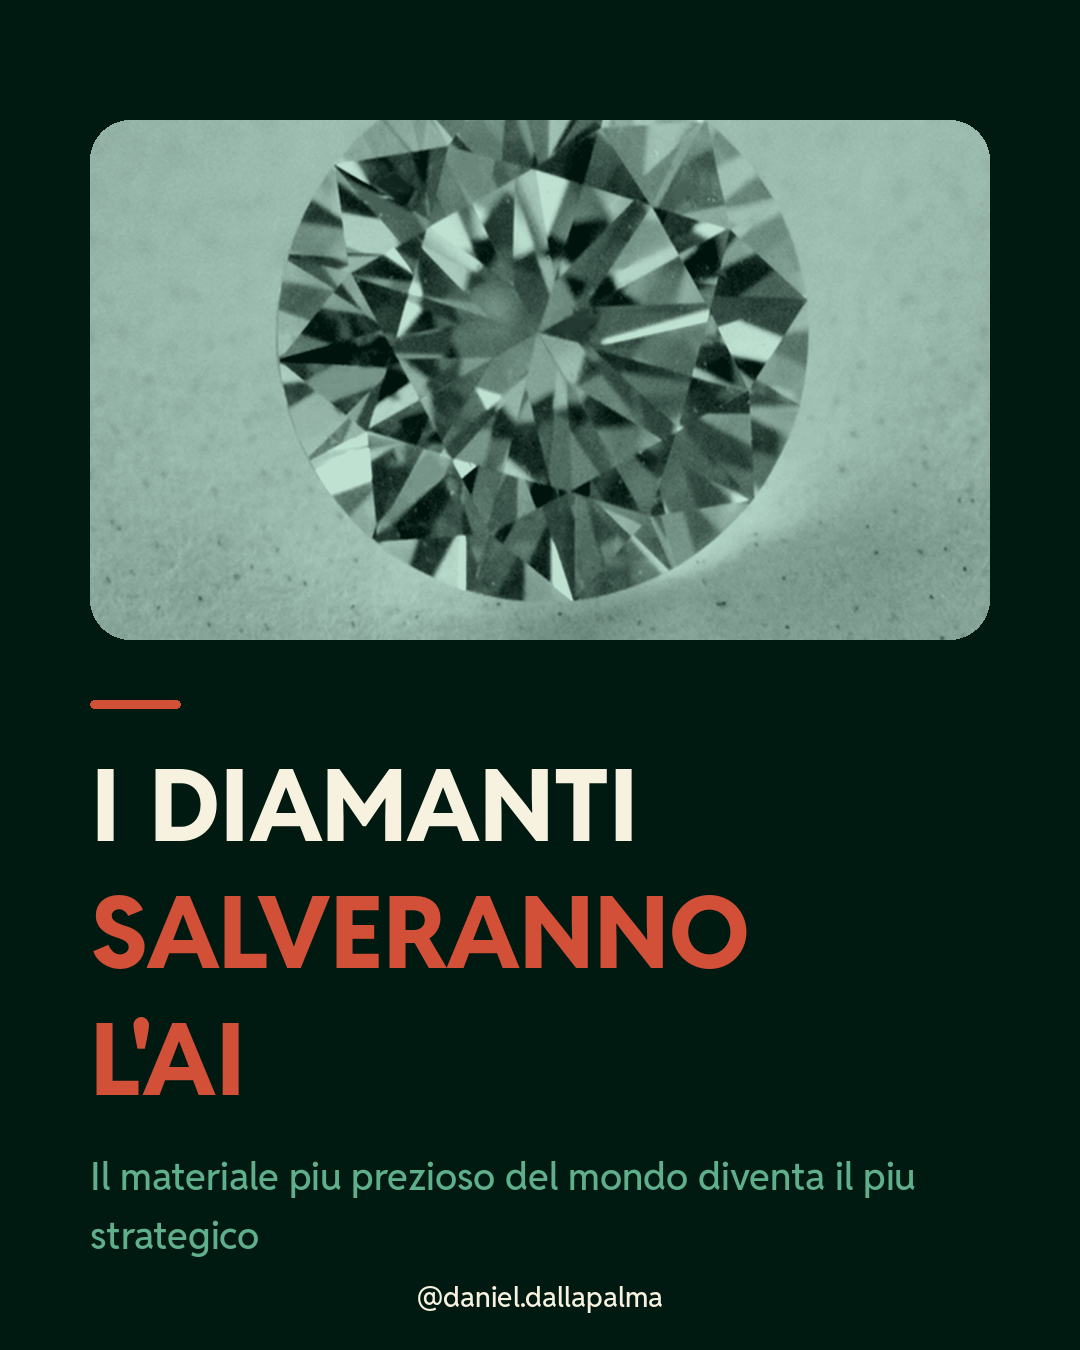
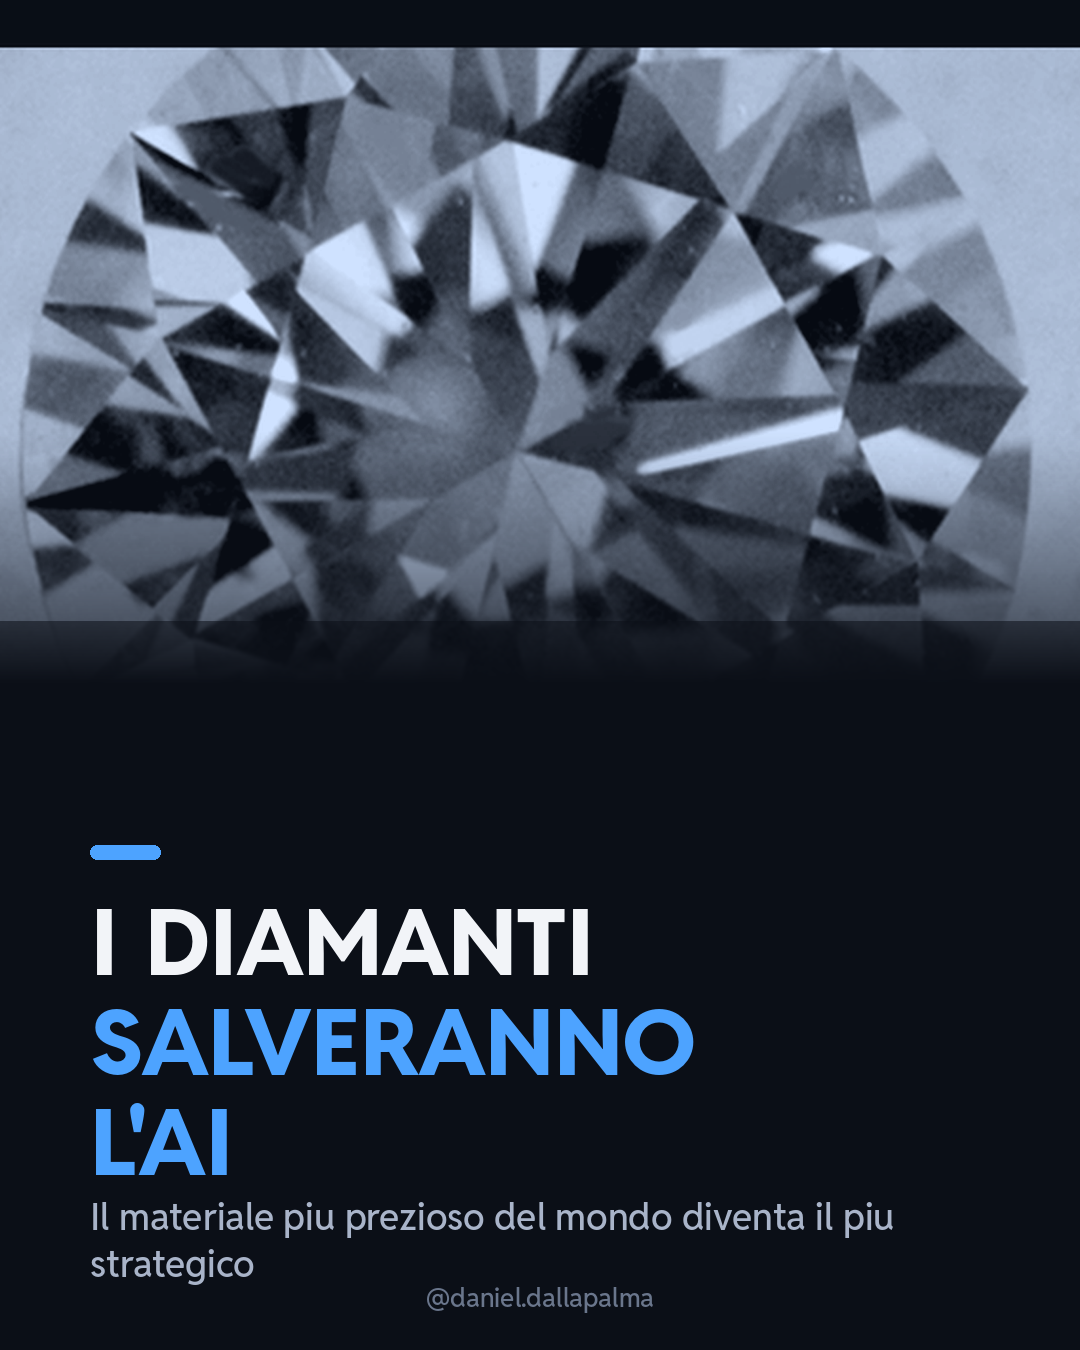
Diamanti carousel: new blue/purple palette (canale Daniel)

diff --git a/diamanti_carousel/index.html b/diamanti_carousel/index.html
@@ -3,7 +3,7 @@
 <head><meta charset="utf-8"><title>Diamanti che raffreddano l'AI</title>
 <style>
   * { margin:0; padding:0; box-sizing:border-box; }
-  .page { width:1080px; height:1350px; overflow:hidden; position:relative; background:#001A11; }
+  .page { width:1080px; height:1350px; overflow:hidden; position:relative; background:#0B0F17; }
   .page img { width:1080px; height:1350px; display:block; object-fit:cover; }
 </style></head>
 <body>
